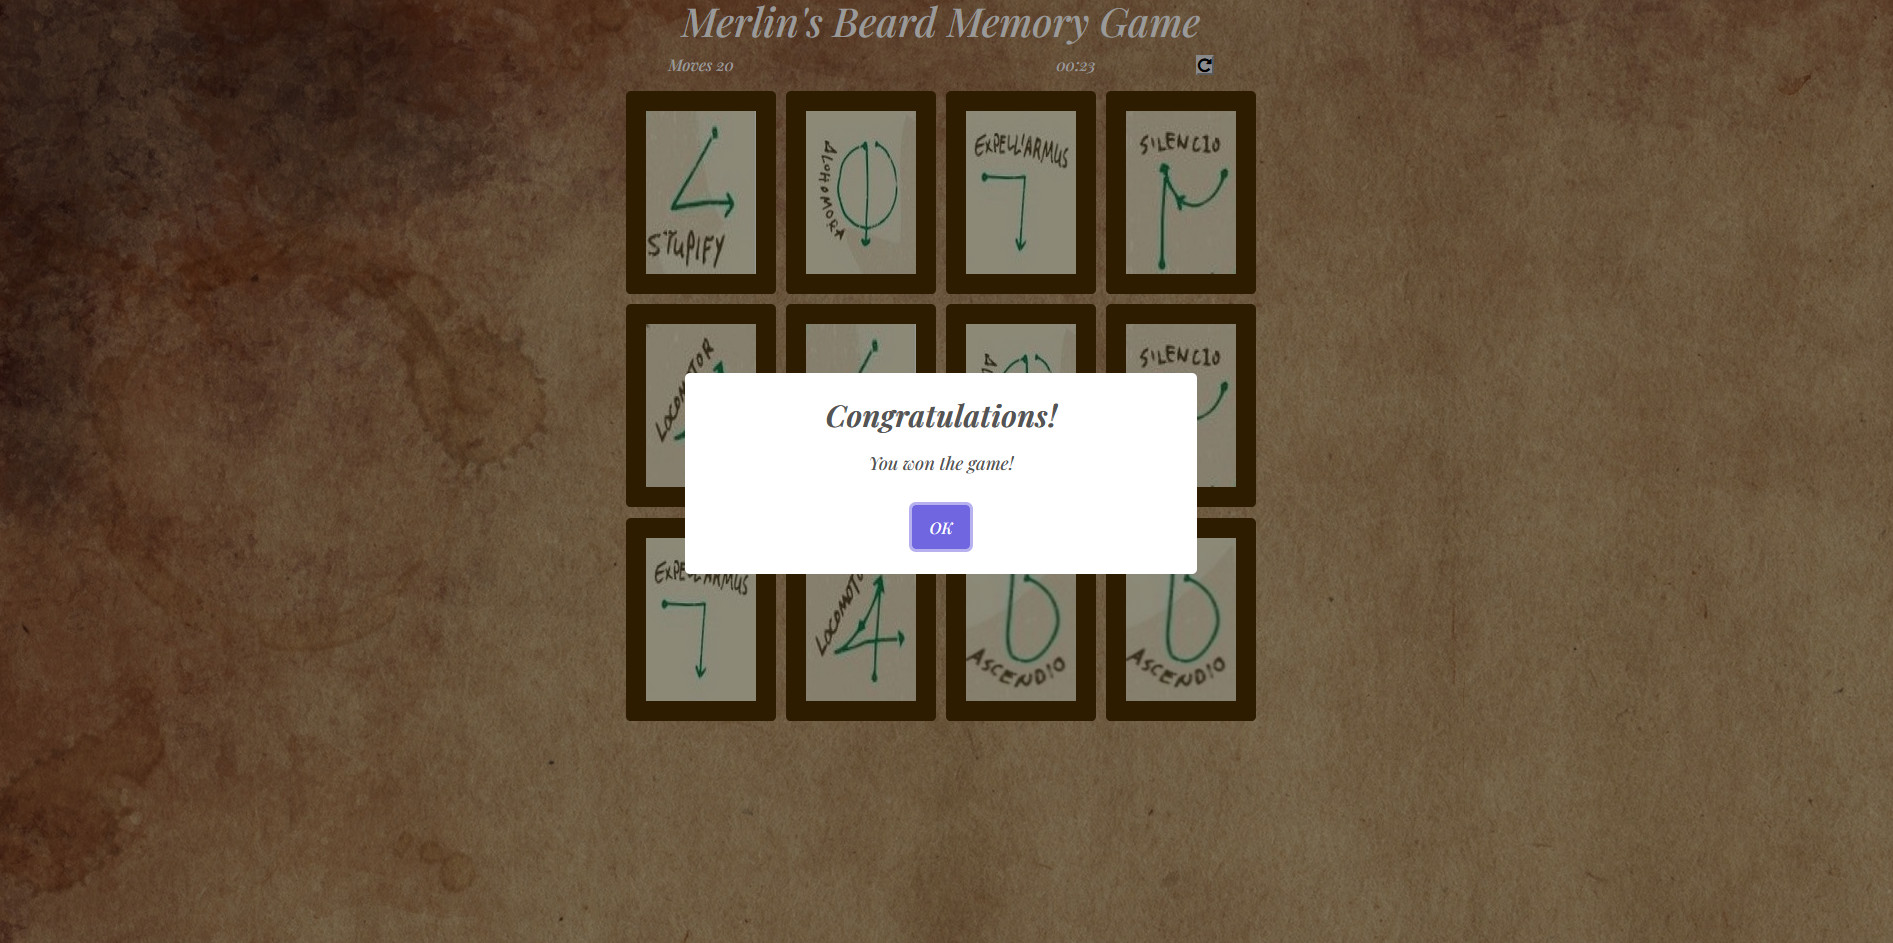
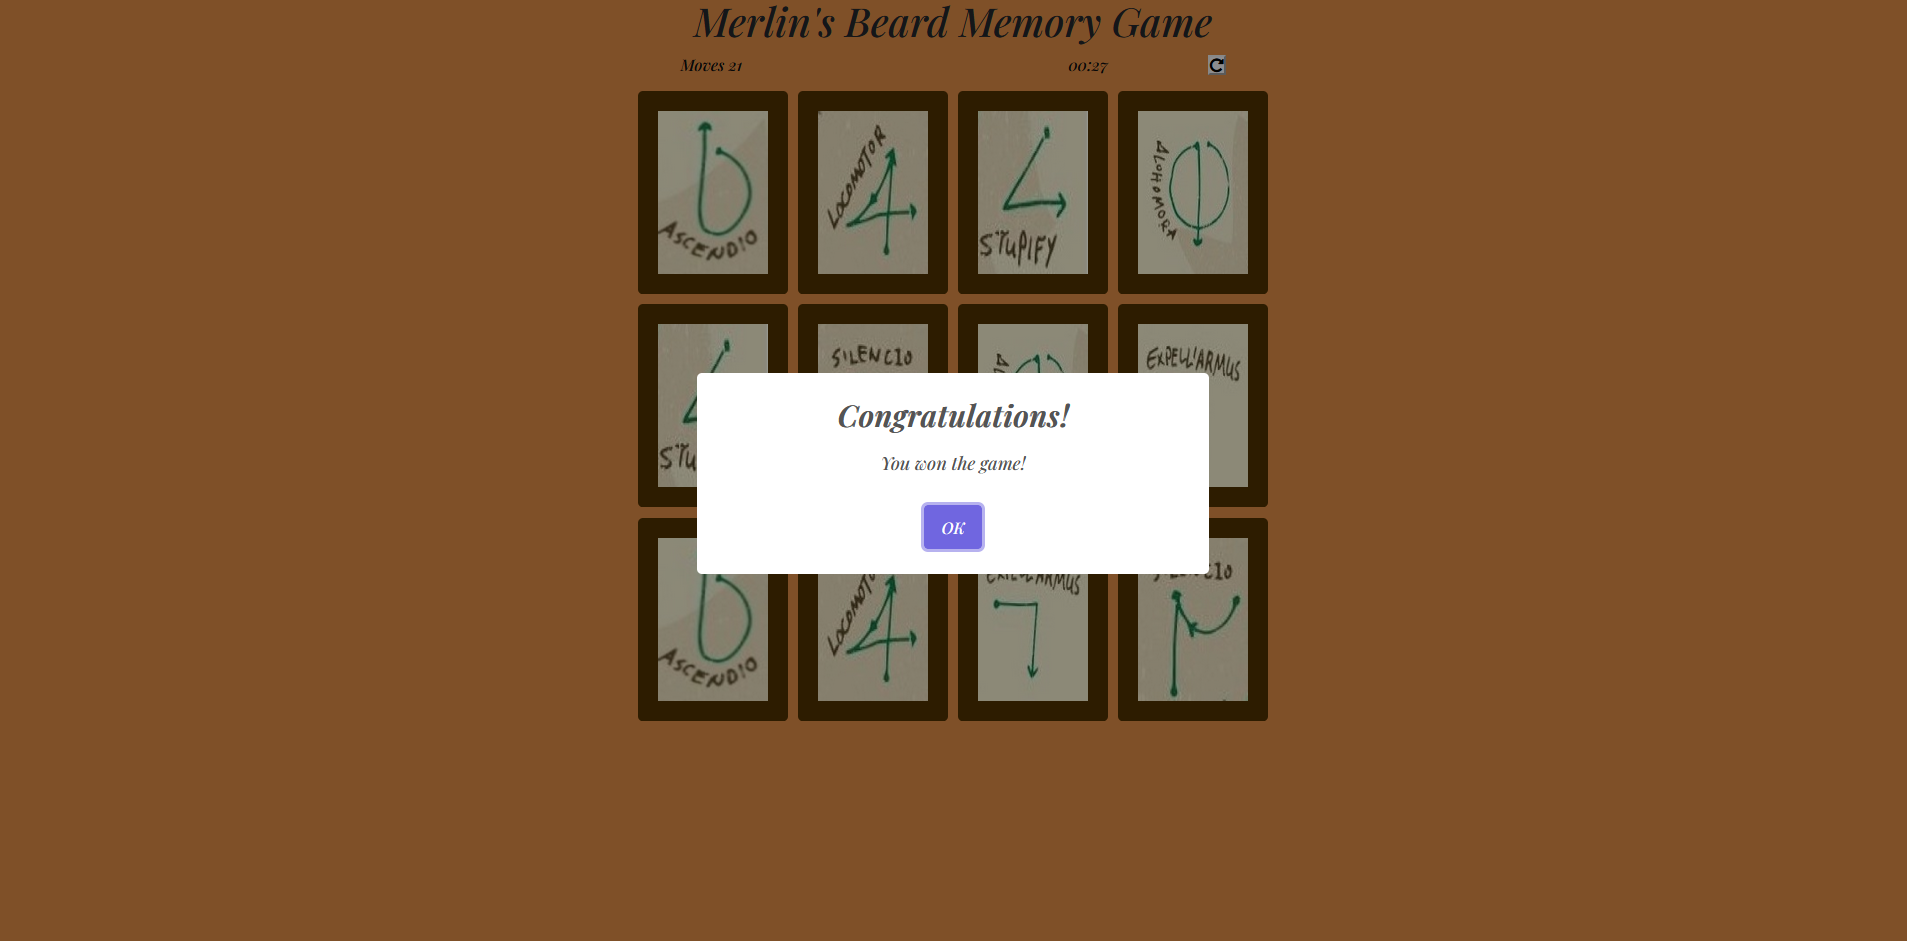
Adjusted readme to color changes

diff --git a/README.md b/README.md
@@ -31,9 +31,11 @@ Each time a player starts the game, the timer starts and their moves are counted
 
         * The main colours used are hues of brown, orange and beige.
 
+    <br>
+
     * __Typography__
 
-        * The main font used for this game is Playfair Display. This font has a distinctive and somewhat aged air which is very suited for the theme of the game.
+        * The main font used for this game is Playfair Display. This font has a distinctive and rustic atmosphere which is very suited for the theme of the game.
 
 <br>
 
@@ -181,6 +183,7 @@ The project was deployed to GitHub Pages using the following steps...
 5. The page will automatically refresh.
 6. Scroll back down through the page to locate the now published site [live project](https://lunarwriter.github.io/IFE-MS-2 "live project") in the "GitHub Pages" section.
 
+<br>
 
 ## Credits
 
@@ -201,6 +204,5 @@ __Content__
 
 __Media__
 
-* The background image was taken from [Pexels](https://pexels.com/ "pexels credits")
 * The images for the back of the memory cards cards taken from [Pexels](https://www.pexels.com/photo/light-nature-bird-night-7978823/ "backface image credits")
 * Front face images on the memory cards taken from [Pinterest](https://nl.pinterest.com/pin/824792119237101317/ "front face image credits")
